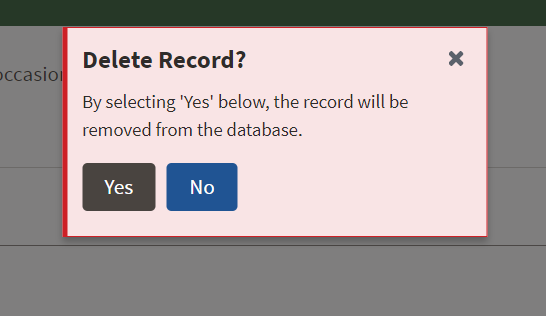
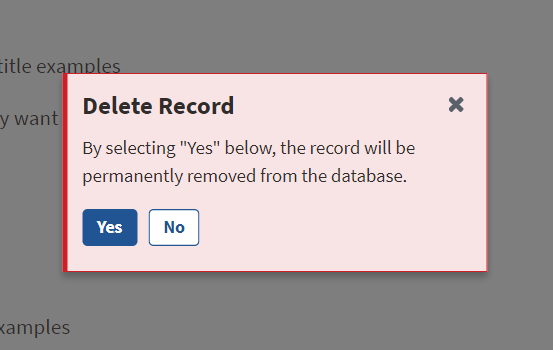
Updated Growl Prompt button usage

diff --git a/guides/applications/form-validation.md b/guides/applications/form-validation.md
@@ -10,14 +10,10 @@ intro: "Validation and error messaging is an integral part of any FSA Applicatio
 
 Below are four common themes that should be followed when developing a validation and messaging system that will help to optimize the workflow of a User. This allows for a more positive User Experience when an system or User error has taken place.
 
-__1. Display error messages at the right place__ - Proper error messaging should appear as close as possible to the area of the application where the error has taken place. Always display validation within the context of the action. If an error has occurred, for instance, from a User typing the wrong format of characters into an online form field, the error message shall appear below the form field. Grouping of form error messages at the top or bottom of the form and away from the pertaining form fields shall not be done.
-
-__2. Display error messages at the right time__ - It is also important for the error message to appear in a timely manner, so that the User is still in the proper mindset for completing the task. Error messages shall appear when the action has been completed. So in the instance of wrong format of characters in an online form field, when the form field loses focus the error message shall appear.
-
-__3. Use the appropriate color for the message__ - Generally speaking, it is best practice to use the color red, paired with error text messaging to indicated something needs to be corrected to continue. In the case of confirmation or success messaging, the color green, paired with success text messaging should be used. Based on the location and background color of the area of the error, consideration of 508 compliance shall still be used.
-
-__4. Use clear language and provide an actionable resolution__ - The verbiage used when notifying a User of an error should be easy to understand and provide a way to solve the problem. Even if the error messaging is placed in the right spot at the right time, and in the right color scheme, it serves no purpose if the User does not understand how to correct the problem. FSA applications shall use [plain language priciples]({{ site.baseurl }}guides/content/plain-language/) when displaying validation messaging.
-
+1. __Display error messages at the right place__ - Proper error messaging should appear as close as possible to the area of the application where the error has taken place. Always display validation within the context of the action. If an error has occurred, for instance, from a User typing the wrong format of characters into an online form field, the error message shall appear below the form field. Grouping of form error messages at the top or bottom of the form and away from the pertaining form fields shall not be done.
+1. __Display error messages at the right time__ - It is also important for the error message to appear in a timely manner, so that the User is still in the proper mindset for completing the task. Error messages shall appear when the action has been completed. So in the instance of wrong format of characters in an online form field, when the form field loses focus the error message shall appear.
+1. __Use the appropriate color for the message__ - Generally speaking, it is best practice to use the color red, paired with error text messaging to indicated something needs to be corrected to continue. In the case of confirmation or success messaging, the color green, paired with success text messaging should be used. Based on the location and background color of the area of the error, consideration of 508 compliance shall still be used.
+1. __Use clear language and provide an actionable resolution__ - The verbiage used when notifying a User of an error should be easy to understand and provide a way to solve the problem. Even if the error messaging is placed in the right spot at the right time, and in the right color scheme, it serves no purpose if the User does not understand how to correct the problem. FSA applications shall use [plain language priciples]({{ site.baseurl }}guides/content/plain-language/) when displaying validation messaging.
 
 ## Example Messaging States
 

diff --git a/guides/applications/modal.md b/guides/applications/modal.md
@@ -23,14 +23,6 @@ intro: "A Popup window or Modal window is a vital part of many FSA applications 
   <a href="{{ site.baseurl }}img/subcategories/applications/modal-sample1.jpg" target="_blank"><img src="{{ site.baseurl }}img/subcategories/applications/modal-sample1.jpg" alt="Image of sample Modal Window"></a>
 </figure>
 
-
-<!-- ## Modal Window Confirmation Sample
-
-<figure>
-  <a href="{{ site.baseurl }}img/subcategories/applications/modal-sample2.jpg" target="_blank"><img src="{{ site.baseurl }}img/subcategories/applications/modal-sample2.jpg" alt="Image of sample Modal Window Confirmation"></a>
-</figure> 
- -->
-
 ## Related Resources
 
  * [Modal Component]({{ site.baseurl }}components/modal/)
